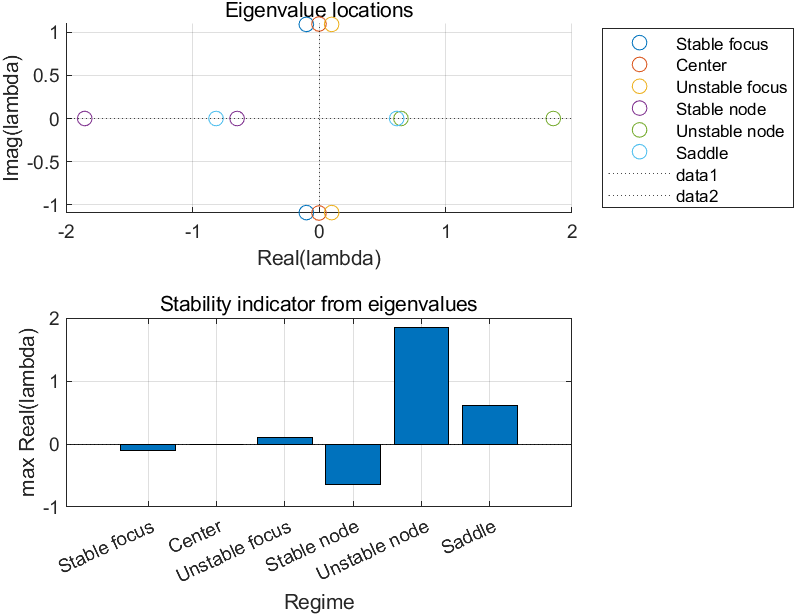
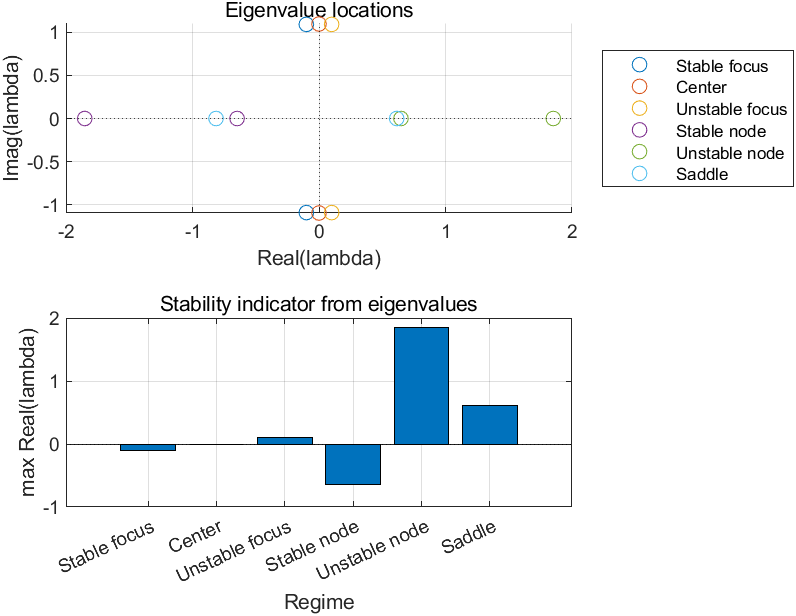
Improve result figure readability

diff --git a/matlab/generate_results.m b/matlab/generate_results.m
@@ -16,9 +16,10 @@ cases = get_test_cases();
 % Phase portraits for the six requested dynamic regimes.
 phase_figure = figure('Visible', 'off', 'Color', 'w');
 tiledlayout(2, 3);
+phase_tspan = [0, 6];
 for index = 1:numel(cases)
     rhs = @(time, state) cases(index).A * state;
-    [~, state] = ode45(rhs, [0, 12], [1; 0]);
+    [~, state] = ode45(rhs, phase_tspan, [1; 0]);
     nexttile;
     plot(state(:, 1), state(:, 2), 'LineWidth', 1.1);
     grid on;
@@ -31,7 +32,9 @@ for index = 1:numel(cases)
     % exponent into each tick label for a readable, self-contained axis.
     if strcmp(cases(index).name, 'Unstable node')
         ax = gca;
+        ax.XAxis.Exponent = 0;
         ax.YAxis.Exponent = 0;
+        xtickformat(ax, '%.1e');
         ytickformat(ax, '%.1e');
     end
 end
@@ -49,8 +52,8 @@ for index = 1:numel(cases)
     plot(real(lambda), imag(lambda), 'o', 'MarkerSize', 7, ...
         'DisplayName', cases(index).name);
 end
-xline(0, 'k:');
-yline(0, 'k:');
+xline(0, 'k:', 'HandleVisibility', 'off');
+yline(0, 'k:', 'HandleVisibility', 'off');
 grid on;
 xlabel('Real(lambda)');
 ylabel('Imag(lambda)');
